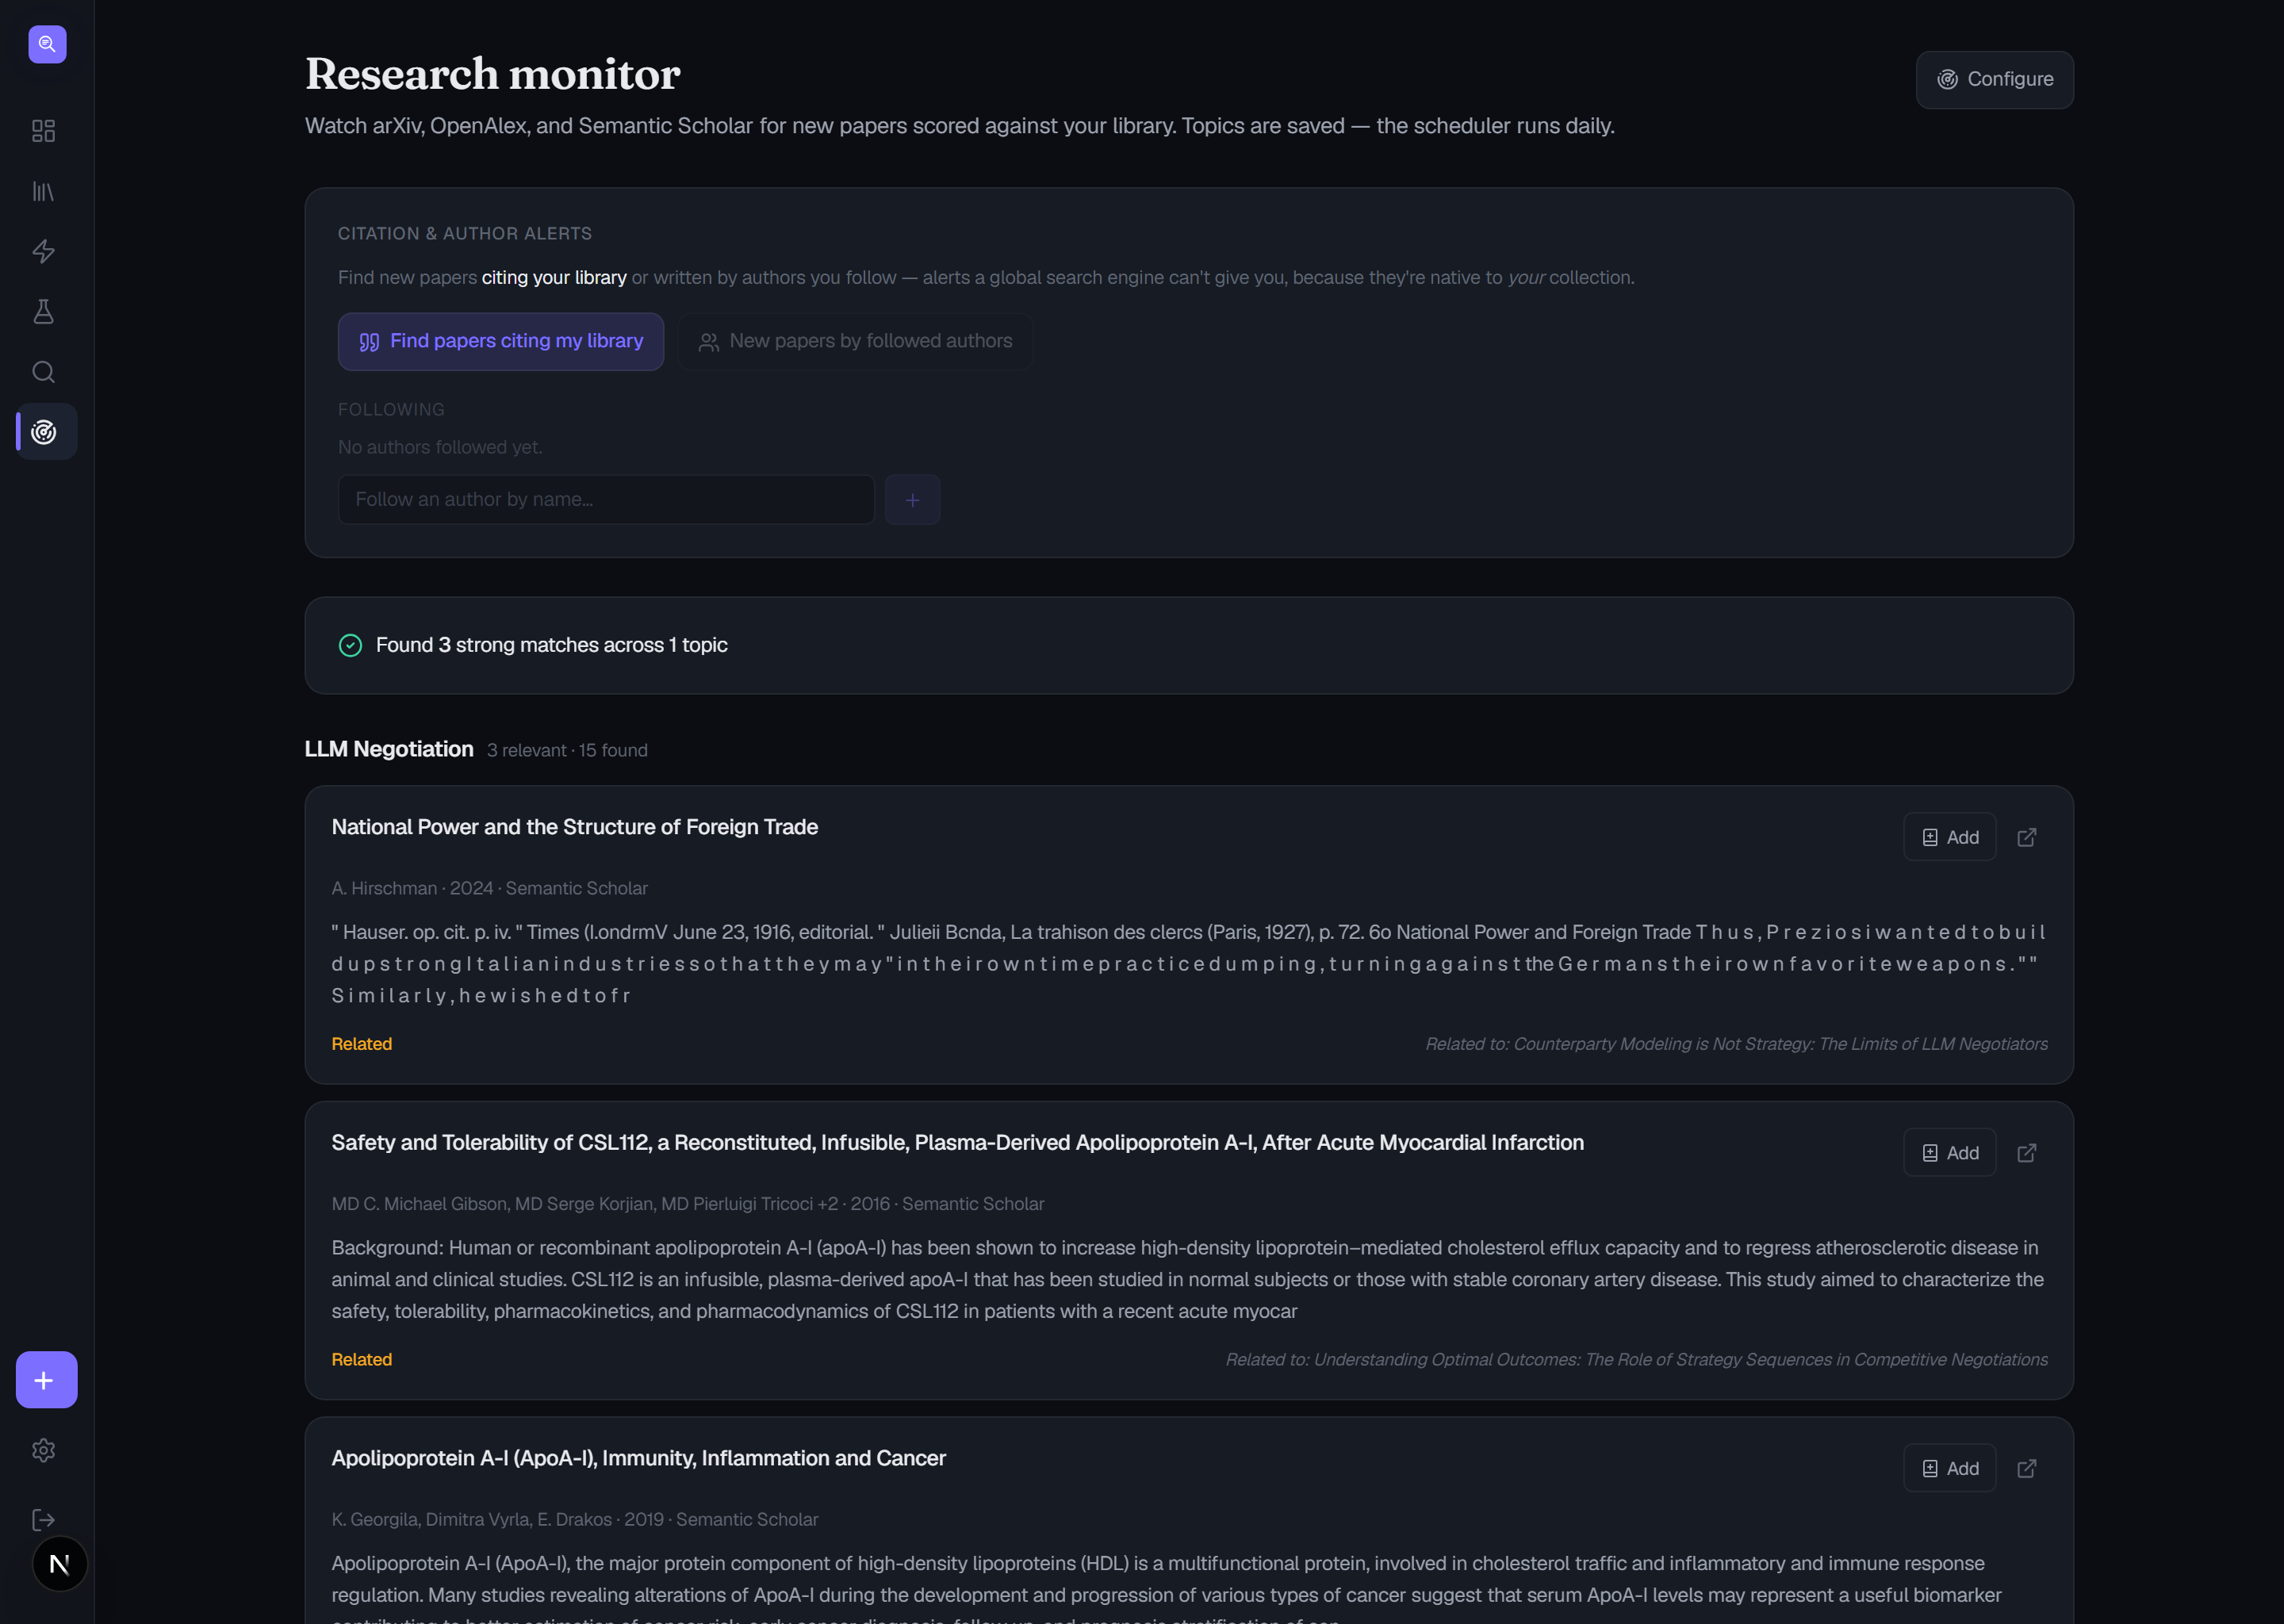
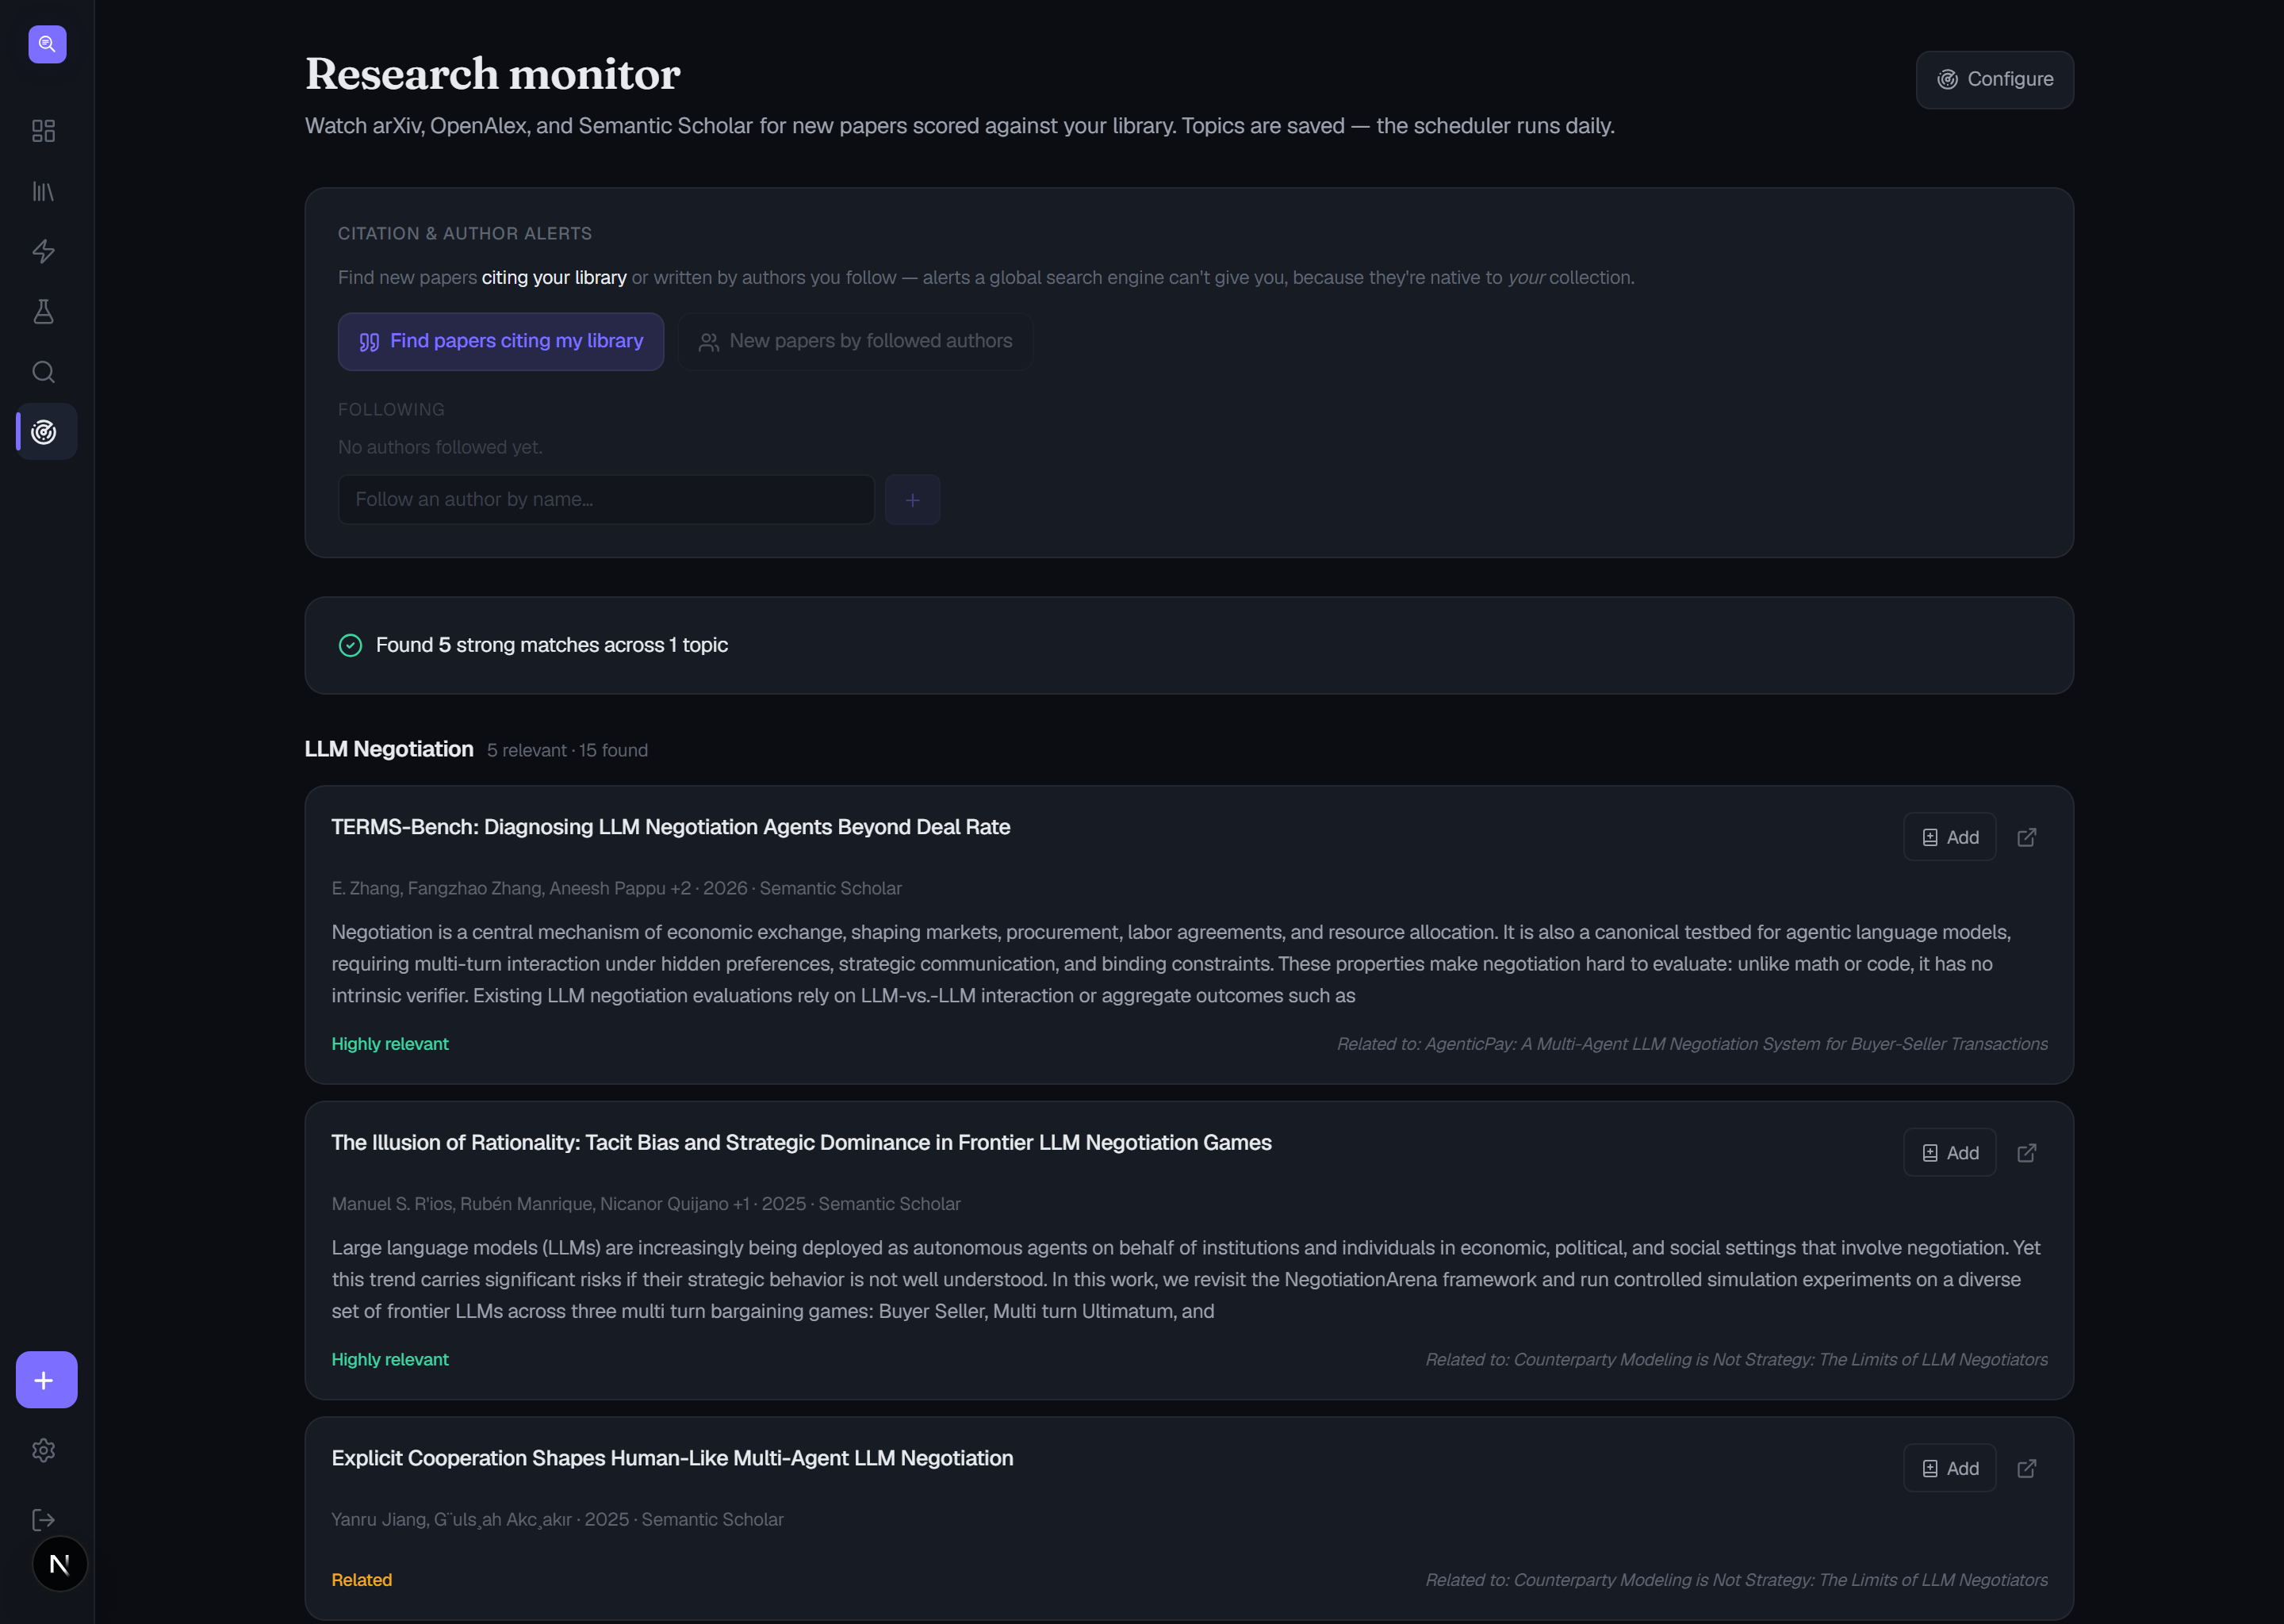
monitor: fix keyword sanitizer mangling queries; rerank topic relevance

diff --git a/agents/monitoring_agent.py b/agents/monitoring_agent.py
@@ -57,6 +57,16 @@ class DigestResult:
     scan_time: str
 
 
+# Cross-encoder relevance calibration. Candidates are re-scored against the
+# topic query with the Voyage reranker; these cuts are on its score scale, NOT
+# cosine distance. On the negotiation library, on-topic papers land ~0.6-0.85
+# and clearly off-topic ones (song generation, cardiology) sit ~0.30-0.45 — so
+# 0.45 cleanly drops the junk that cosine-to-library similarity let through.
+RERANK_KEEP = 0.45          # below this: off-topic, dropped
+RERANK_TIER_HIGH = 0.65     # at/above this: "highly relevant"
+MAX_RELEVANT_PER_TOPIC = 10  # cap kept papers so the digest stays readable
+
+
 class MonitoringAgent:
     def __init__(self):
         self.client = Anthropic()
@@ -94,11 +104,13 @@ class MonitoringAgent:
         # returning a thinner set.
         all_results = []
         for kw in topic.keywords:
-            # Sanitise: collapse whitespace, strip chars that break API
-            # query strings. Keeps alphanumerics, spaces, hyphens.
-            # Catches sloppy-typing failure mode, no spell library needed.
-            kw = " ".join(
-                ch if (ch.isalnum() or ch in "-_") else " "
+            # Sanitise: replace chars that break API query strings with a
+            # space, keeping alphanumerics, spaces, and hyphens. Join with ""
+            # (NOT " ") so words stay intact — joining with a space exploded
+            # every character into its own token ("LLM negotiation" became
+            # "L L M n e g o t i a t i o n"), which mangled every query.
+            kw = "".join(
+                ch if (ch.isalnum() or ch in "-_ ") else " "
                 for ch in kw
             )
             kw = " ".join(kw.split())  # collapse whitespace
@@ -134,8 +146,11 @@ class MonitoringAgent:
                 scan_time=datetime.now(timezone.utc).isoformat(),
             )
 
-        # Score relevance against library
-        scored = self._score_relevance(new_papers, relevance_threshold, lib_ids=lib_ids)
+        # Score relevance with the cross-encoder reranker, querying against the
+        # topic itself (name + keywords). relevance_threshold is the legacy
+        # cosine knob and no longer gates here — the rerank calibration does.
+        topic_query = " ".join([topic.name, *topic.keywords]).strip() or topic.name
+        scored = self._score_relevance(new_papers, topic_query, lib_ids=lib_ids)
 
         return DigestResult(
             topic=topic.name,
@@ -148,50 +163,100 @@ class MonitoringAgent:
     def _score_relevance(
         self,
         papers: list[ImportResult],
-        threshold: float,
+        query: str,
         lib_ids: list[str] | None = None,
     ) -> list[ScoredPaper]:
+        """Rank discovered papers by relevance to the topic with the Voyage
+        cross-encoder, dropping the off-topic ones.
+
+        Cosine similarity to the library used to do this, but Voyage embeddings
+        compress every academic abstract into a narrow ~0.5-0.9 band, so a
+        cardiology paper scored as high as a negotiation one and the threshold
+        couldn't separate them. The reranker reads (topic, abstract) jointly and
+        produces a real on/off-topic gradient. Returns papers sorted best-first,
+        already filtered to the relevant ones.
         """
-        Score each paper's relevance to the existing library.
-        Uses embedding similarity between paper abstracts and library content.
-        """
-        # If the user's library is empty, all papers are relevant
+        candidates = [p for p in papers if (p.abstract or p.title)]
+        if not candidates:
+            return []
+
+        docs = [(p.abstract or p.title)[:1500] for p in candidates]
+        try:
+            order = self.vector_store.rerank(query, docs)  # [(idx, score)] best-first
+        except Exception as e:  # noqa: BLE001 — degrade to cosine if reranker is down
+            print(f"[monitor] rerank unavailable, falling back to cosine: {e}")
+            return self._score_relevance_cosine(candidates, lib_ids)
+
+        kept = [(i, s) for i, s in order if s >= RERANK_KEEP][:MAX_RELEVANT_PER_TOPIC]
+        if not kept:
+            return []
+
+        # 'Related to: <your paper>' flavor — embed only the kept abstracts (few)
+        # and name each one's nearest library paper. Best-effort; the rerank
+        # score is what actually gates relevance.
+        reasons = self._library_reasons([docs[i] for i, _ in kept], lib_ids)
+        return [
+            ScoredPaper(paper=candidates[i], relevance_score=round(float(s), 3),
+                        relevance_reason=reason)
+            for (i, s), reason in zip(kept, reasons)
+        ]
+
+    def _library_reasons(self, abstracts: list[str],
+                         lib_ids: list[str] | None) -> list[str]:
+        """For each abstract, the title of its nearest library paper — display
+        flavor only. Falls back to a topic-based reason if there's no library or
+        the lookup fails."""
+        default = "Matches your monitored topic"
+        if not abstracts or (lib_ids is not None and len(lib_ids) == 0):
+            return [default] * len(abstracts)
+        try:
+            embeddings = self.vector_store.embed_texts(abstracts)
+        except Exception as e:  # noqa: BLE001
+            print(f"[monitor] reason embed failed: {e}")
+            return [default] * len(abstracts)
+        out = []
+        for emb in embeddings:
+            try:
+                hits = self.vector_store.search_by_embedding(
+                    embedding=emb, n_results=1, paper_ids=lib_ids)
+                top = self.db.get_paper(hits[0].paper_id) if hits else None
+                out.append(f"Related to: {top.title}" if top else default)
+            except Exception:  # noqa: BLE001
+                out.append(default)
+        return out
+
+    def _score_relevance_cosine(
+        self,
+        papers: list[ImportResult],
+        lib_ids: list[str] | None = None,
+        threshold: float = 0.5,
+    ) -> list[ScoredPaper]:
+        """Fallback used only when the reranker is unavailable: cosine similarity
+        of each abstract to the nearest library chunks. The threshold is held
+        higher than the old 0.3 so this degraded path is at least less noisy."""
         empty_library = (
             (lib_ids is not None and len(lib_ids) == 0)
             or (lib_ids is None and self.vector_store.count() == 0)
         )
         if empty_library:
             return [
-                ScoredPaper(paper=p, relevance_score=0.5, relevance_reason="No library to compare against")
+                ScoredPaper(paper=p, relevance_score=0.5,
+                            relevance_reason="No library to compare against")
                 for p in papers
             ]
 
-        # Cap at 5 papers — reduced from 8 to further lower peak memory.
-        # Batch embed all abstracts in one Voyage API call instead of one
-        # call per paper — eliminates N sequential HTTP round trips and
-        # reduces memory by releasing all embedding arrays together after
-        # the batch rather than holding each in memory during a loop.
-        papers = [p for p in papers[:5] if p.abstract]
+        papers = [p for p in papers[:MAX_RELEVANT_PER_TOPIC] if p.abstract]
         if not papers:
             return []
 
-        scored = []
+        scored: list[ScoredPaper] = []
         try:
-            # One Voyage call for all abstracts — batch is more memory-efficient
-            # than N sequential calls because the HTTP response is parsed once
-            # and the embedding list is released as a unit after use.
             abstracts = [p.abstract[:400] for p in papers]
             embeddings = self.vector_store.embed_texts(abstracts)
-
             for paper, embedding in zip(papers, embeddings):
                 try:
-                    # Use the pre-computed embedding directly for pgvector search
-                    # instead of re-embedding inside vector_store.search()
                     results = self.vector_store.search_by_embedding(
-                        embedding=embedding,
-                        n_results=3,
-                        paper_ids=lib_ids,
-                    )
+                        embedding=embedding, n_results=3, paper_ids=lib_ids)
                     if results:
                         avg_sim = 1 - (sum(r.score for r in results) / len(results))
                         avg_sim = max(0, min(1, avg_sim))
@@ -211,12 +276,10 @@ class MonitoringAgent:
                     continue
         except Exception as e:
             print(f"[monitor] batch embed failed: {e}")
-            # Fallback: skip scoring, return all papers as mildly relevant
             return [ScoredPaper(paper=p, relevance_score=0.4,
                                relevance_reason="Relevance scoring unavailable")
                     for p in papers]
 
-        # Sort by relevance (highest first)
         scored.sort(key=lambda s: s.relevance_score, reverse=True)
         return scored
 
@@ -352,15 +415,14 @@ class MonitoringAgent:
 
 
     @staticmethod
-    def _tier_from_similarity(sim: float) -> str:
-        """Map a library-similarity score (0..1, HIGHER = more relevant) to the
-        same tier vocabulary the search UI uses. Note this is the inverse of
-        settings.relevance_tier, which takes a cosine *distance* (lower = better)
-        — passing this similarity there would invert the labels, which is the bug
-        that made every monitored paper read as 'Broader field'."""
-        if sim >= 0.55:
+    def _tier_from_similarity(score: float) -> str:
+        """Map a relevance score (0..1, HIGHER = more relevant) to the tier
+        vocabulary the search UI uses. The score is now the cross-encoder rerank
+        relevance, so the cuts are calibrated for that scale (on-topic ~0.6-0.85,
+        off-topic ~0.30-0.45) rather than for cosine distance."""
+        if score >= RERANK_TIER_HIGH:
             return "highly_relevant"
-        if sim >= 0.42:
+        if score >= RERANK_KEEP:
             return "related"
         return "tangential"
 